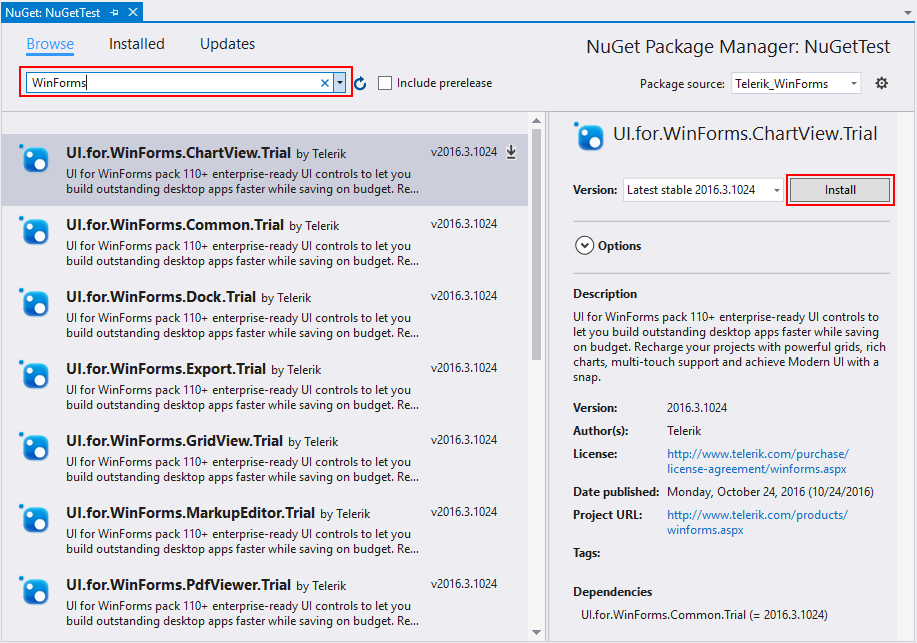
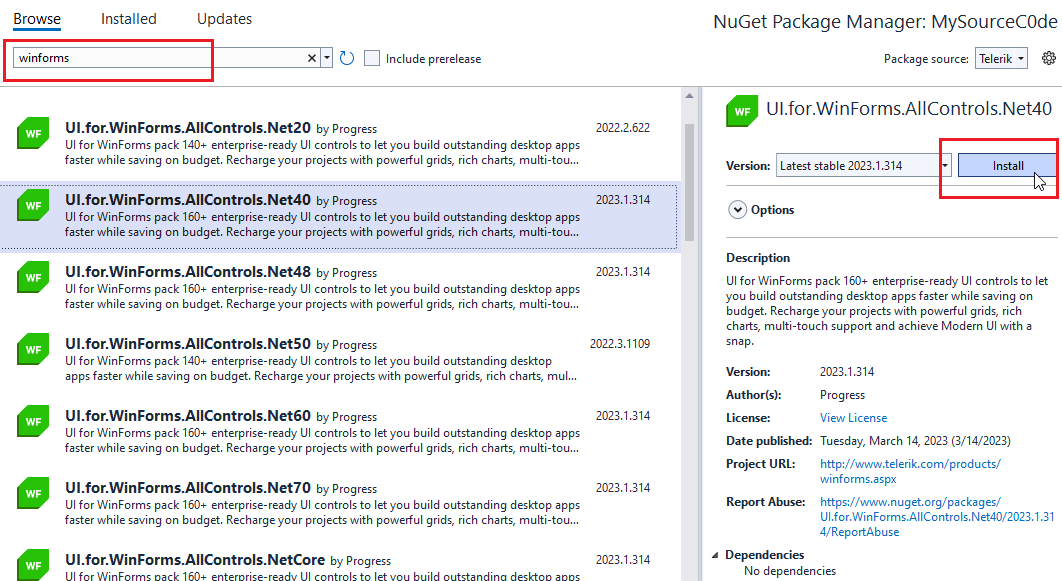
Update Nuget packages screenshots

diff --git a/visual-studio-integration/install-using-nuget.md b/visual-studio-integration/install-using-nuget.md
@@ -42,7 +42,9 @@ This article describes how you can install the WinForms suite using a NuGet pack
 	
 	![installation-deployment-and-distribution-install-using-nuget 003](images/installation-deployment-and-distribution-install-using-nuget003.png)
 
-1. The final step is to select and install the desired packages. Please note that there are two versions, one for .NET 2.0 to 3.5 and one for 2.0 or newer. 
+1. The final step is to select and install the desired packages. Please note that there are several versions, corresponding to the target framework used in the project, one for .NET 4.0, one for 4.8, one for .NET 6.0 or newer. 
+
+	![installation-deployment-and-distribution-install-using-nuget 00](images/installation-deployment-and-distribution-install-using-nuget008.png)
 
 ## Download from the NuGet server
 
@@ -65,6 +67,10 @@ You need to add the Telerik package server (**https://nuget.telerik.com/v3/index
 1. Then you can just select and install the desired NuGet packages.
 
     ![installation-deployment-and-distribution-install-using-nuget 006](images/installation-deployment-and-distribution-install-using-nuget006.png)
+
+It is necessary to choose this Nuget package which corresponds to the respective [target framework]({%slug assemblies-version%}) selected in your project:
+
+   ![installation-deployment-and-distribution-install-using-nuget 007](images/installation-deployment-and-distribution-install-using-nuget007.png)
 
 # See Also
 
